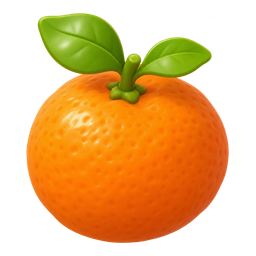
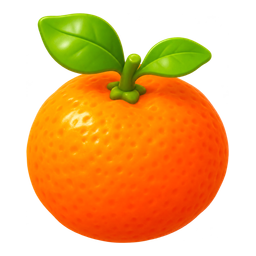
목장 배치: 건초통 · 물통을 우리 오른쪽에 ㅣ자로(위 건초, 아래 물), 양봉 통은 왼쪽 울타리 앞 세로로, 꿀벌 통마다 3 · 2마리. 귤 더 쨍하게(열매 모델 색조 맞춤 · 아이콘 채도), 키위 껍질 더 진하게. 가축 돌보기 버튼에서 돌봄 횟수 · 남은 먹이 개수 표시 삭제(먹이가 없을 때 안내만)

diff --git a/src/world/scenes/yard/apiary/apiaryLayout.ts b/src/world/scenes/yard/apiary/apiaryLayout.ts
@@ -1,14 +1,14 @@
 /**
- * 양봉장(꿀벌) 배치: 동물 우리 안 앞쪽 왼쪽 구석(왼쪽 여물통 앞)에 양봉 통 자리 두 개.
+ * 양봉장(꿀벌) 배치: 동물 우리 안 왼쪽 울타리에 붙여 세로로 양봉 통 자리 두 개 (예전 건초통 자리).
  * 꿀벌은 우리 안을 걷지 않고, 산 순서대로 이 자리에 통이 놓인다. 숫자는 이 파일만 고친다.
  * 우리 동물들은 이 구석을 피해 다닌다 (pen/animalActions 의 APIARY_AREA).
  */
-import { PEN_MAX_Z, PEN_MIN_X } from '../pen/penLayout';
+import { PEN_MIN_X, pen } from '../pen/penLayout';
 
 /** 통 자리 (산 순서대로). 꿀벌은 최대 2통 (catalog ANIMAL_SPECIES.bee.maxCount) */
 export const HIVE_SLOTS = [
-  { x: PEN_MIN_X + 0.75, z: PEN_MAX_Z - 1.2, rot: 0.2 },
-  { x: PEN_MIN_X + 2.0, z: PEN_MAX_Z - 1.15, rot: -0.1 },
+  { x: PEN_MIN_X + 0.7, z: pen.center.z - 0.8, rot: Math.PI / 2 },
+  { x: PEN_MIN_X + 0.7, z: pen.center.z + 0.8, rot: Math.PI / 2 },
 ];
 
 /** 통 부딪힘 반지름, 버튼이 뜨는 거리 */
@@ -18,12 +18,12 @@ export const HIVE_RANGE = 1.5;
 /** 통이 놓이는 구석 (우리 동물이 들어오지 않고, 마당 꾸미기로 물건을 놓지 못한다) */
 export const APIARY_AREA = {
   minX: PEN_MIN_X,
-  maxX: PEN_MIN_X + 2.7,
-  minZ: PEN_MAX_Z - 1.9,
-  maxZ: PEN_MAX_Z,
+  maxX: PEN_MIN_X + 1.5,
+  minZ: pen.center.z - 1.7,
+  maxZ: pen.center.z + 1.7,
 };
 
-/** 통마다 날아다니는 꿀벌 수 (첫 통 4, 둘째 통 3) */
-export const BEES_PER_HIVE = [4, 3];
+/** 통마다 날아다니는 꿀벌 수 (첫 통 3, 둘째 통 2) */
+export const BEES_PER_HIVE = [3, 2];
 /** 꿀벌이 통 둘레를 도는 반지름 (m) — 우리 울타리를 크게 넘지 않게 */
 export const BEE_ORBIT = { min: 0.35, max: 0.75 };

diff --git a/src/world/scenes/yard/pen/penLayout.ts b/src/world/scenes/yard/pen/penLayout.ts
@@ -12,10 +12,13 @@ export const PEN_MAX_Z = pen.center.z + pen.depth / 2;
 export const GATE_WIDTH = 1.8;
 /** 울타리 두께 (부딪힘) */
 export const FENCE_THICKNESS = 0.2;
-/** 여물통(건초) 자리 (우리 안 왼쪽 벽 앞, 세로로) */
-export const TROUGH = { x: PEN_MIN_X + 0.9, z: pen.center.z, length: 1.6 };
-/** 물통 자리 (우리 안 오른쪽 벽 앞, 세로로). 여물통과 마주 본다 */
-export const WATER_TROUGH = { x: PEN_MAX_X - 0.9, z: pen.center.z, length: 1.6 };
+/**
+ * 여물통(건초) · 물통: 둘 다 우리 안 오른쪽 벽 앞에 세로로, 한 줄(ㅣ자)로 놓는다 — 위(안쪽)가 건초, 아래(앞쪽)가 물.
+ * 왼쪽 벽 앞은 양봉 통 자리다 (yard/apiary). rot: 통이 우리 안쪽(왼쪽)을 보게
+ */
+const TROUGH_GAP = 0.5;
+export const TROUGH = { x: PEN_MAX_X - 0.9, z: pen.center.z - (1.6 + TROUGH_GAP) / 2, length: 1.6, rot: -Math.PI / 2 };
+export const WATER_TROUGH = { x: PEN_MAX_X - 0.9, z: pen.center.z + (1.6 + TROUGH_GAP) / 2, length: 1.6, rot: -Math.PI / 2 };
 /** 헛간 모델의 반 너비 · 반 깊이 (3.7m 정사각형, 모델을 재서 맞춤) */
 const BARN_HALF = 1.85;
 /** 헛간은 우리 가운데(앞문과 같은 x), 앞면이 뒤 울타리에 닿게 */

diff --git a/src/config/models.ts b/src/config/models.ts
@@ -225,8 +225,10 @@ export const MODEL_MANIFEST: ModelSpec[] = [
   model(MODELS.fruits.banana, 'models/fruits/banana.glb', 'tiny', 0.26, ASSETS.crops.banana),
   model(MODELS.fruits.blueberry, 'models/fruits/blueberry.glb', 'tiny', 0.2, ASSETS.crops.blueberry),
   // 귤 · 키위: 아이콘 그림(잎 · 단면)이 아니라 3D 용 통 열매 그림을 따로 만든다
-  model(MODELS.fruits.tangerine, 'models/fruits/tangerine.glb', 'tiny', 0.2),
-  model(MODELS.fruits.kiwi, 'models/fruits/kiwi.glb', 'tiny', 0.2),
+  // 귤은 오렌지처럼 껍질을 선명한 주황으로 맞춘다 (사용자: 더 쨍하고 먹음직스럽게)
+  { ...model(MODELS.fruits.tangerine, 'models/fruits/tangerine.glb', 'tiny', 0.2), color: { warmHue: 27, saturation: 1.1, brightness: 1.05 } },
+  // 키위는 껍질을 더 진한 갈색으로 (사용자 요청)
+  { ...model(MODELS.fruits.kiwi, 'models/fruits/kiwi.glb', 'tiny', 0.2), color: { brightness: 0.68, saturation: 1.25 } },
 ];
 
 export const MODEL_SPEC_BY_KEY: Record<string, ModelSpec> = Object.fromEntries(

diff --git a/src/world/scenes/yard/pen/AnimalPen.tsx b/src/world/scenes/yard/pen/AnimalPen.tsx
@@ -88,10 +88,10 @@ export function AnimalPen(): React.ReactElement {
         <group position={[BARN.x, 0, BARN.z]}>
           <GltfModel modelKey={MODELS.buildings.barn} fallback={<FallbackBarn />} />
         </group>
-        <group position={[TROUGH.x, 0, TROUGH.z]} rotation-y={Math.PI / 2}>
+        <group position={[TROUGH.x, 0, TROUGH.z]} rotation-y={TROUGH.rot}>
           <GltfModel modelKey={MODELS.buildings.trough} fallback={<FallbackTrough />} />
         </group>
-        <group position={[WATER_TROUGH.x, 0, WATER_TROUGH.z]} rotation-y={-Math.PI / 2}>
+        <group position={[WATER_TROUGH.x, 0, WATER_TROUGH.z]} rotation-y={WATER_TROUGH.rot}>
           <GltfModel modelKey={MODELS.buildings.waterTrough} fallback={<FallbackWaterTrough />} />
         </group>
         {/* 표지판은 울타리와 겹치지 않게 앞쪽 왼쪽 모서리 바깥에 */}

diff --git a/src/world/scenes/yard/pen/animalActions.ts b/src/world/scenes/yard/pen/animalActions.ts
@@ -120,7 +120,8 @@ export function animalPrompts(animalId: string): InteractionPrompt[] {
       id: 'feed',
       label: def.careLabel ?? `${def.name} 먹이 주기`,
       enabled: feed > 0,
-      hint: feed > 0 ? `돌봄 ${animal.care} / ${def.careGoal} · 먹이 ${feed}개` : '먹이가 없어요. 농장 가게에서 사 오세요',
+      // 돌봄 횟수 · 남은 먹이 개수는 띄우지 않는다 (사용자 요청). 먹이가 없을 때만 알려 준다
+      hint: feed > 0 ? undefined : '먹이가 없어요. 농장 가게에서 사 오세요',
     },
   ];
 }

diff --git a/scripts/art-prompts.ts b/scripts/art-prompts.ts
@@ -43,6 +43,8 @@ export const KIND_PROMPT: Record<Exclude<AssetKind, 'thumbnail'>, (subject: stri
 export const ART_ADJUST: Record<string, { saturation?: number; brightness?: number }> = {
   // 생성된 잔디가 팔레트(#a8d66f)보다 쨍하다
   [ASSETS.textures.grass]: { saturation: 0.82 },
+  // 귤: 더 쨍하고 먹음직스럽게 (사용자 요청)
+  [ASSETS.crops.tangerine]: { saturation: 1.3, brightness: 1.04 },
 };
 
 /** 키별 "무엇" */

diff --git a/CODE_MAP.md b/CODE_MAP.md
@@ -86,10 +86,10 @@ art-src/         생성 원본 (git 에 안 들어감 — 아래 "백업" 참고
 | 나무 모양 · 흔들림 · 단계별 크기 | `src/world/scenes/yard/farm/Tree.tsx` |
 | 열매 위치 · 색 · 수확할 때 날아가기 | `src/world/scenes/yard/farm/Fruits.tsx` |
 | 울타리 · 헛간 · 여물통 · '마굿간 들어가기' 버튼 거리 | `src/world/scenes/yard/pen/AnimalPen.tsx` |
-| 우리 크기 · 문 · 동물 크기와 걷는 빠르기 | `src/world/scenes/yard/pen/penLayout.ts` |
+| 우리 크기 · 문 · 건초통 · 물통 자리(오른쪽에 ㅣ자) · 동물 크기와 걷는 빠르기 | `src/world/scenes/yard/pen/penLayout.ts` |
 | 동물 움직임 (걷기 · 먹기 · 기뻐하기) | `src/world/scenes/yard/pen/Animal.tsx` |
 | 가축 휴식 (3번 받으면 3분 쉼 · zzz · 남은 시간 버튼) | 숫자 `config/balance.ts` 의 `ANIMAL_REST`, 규칙 `src/world/scenes/yard/pen/animalRest.ts`, zzz 그림 `world/effects/effects.tsx` 의 `Marker kind="sleep"` |
-| 양봉 통 자리 (우리 안 앞쪽 왼쪽 구석, 동물 · 꾸미기 금지) · 통마다 꿀벌 수 | `src/world/scenes/yard/apiary/apiaryLayout.ts` |
+| 양봉 통 자리 (우리 안 왼쪽 울타리 앞 세로로, 동물 · 꾸미기 금지) · 통마다 꿀벌 수 | `src/world/scenes/yard/apiary/apiaryLayout.ts` |
 | 양봉 통 (돌보기 · 벌꿀 받기는 다른 가축과 같은 `pen/animalActions`) | `src/world/scenes/yard/apiary/Apiary.tsx` |
 | 통 둘레를 나는 꿀벌 (코드로 만든 모양 · 인스턴싱) | `src/world/scenes/yard/apiary/BeeSwarm.tsx` |
 | 집 안 (방 크기 · 벽 · 문) | `src/world/scenes/home/HomeWorld.tsx` |
